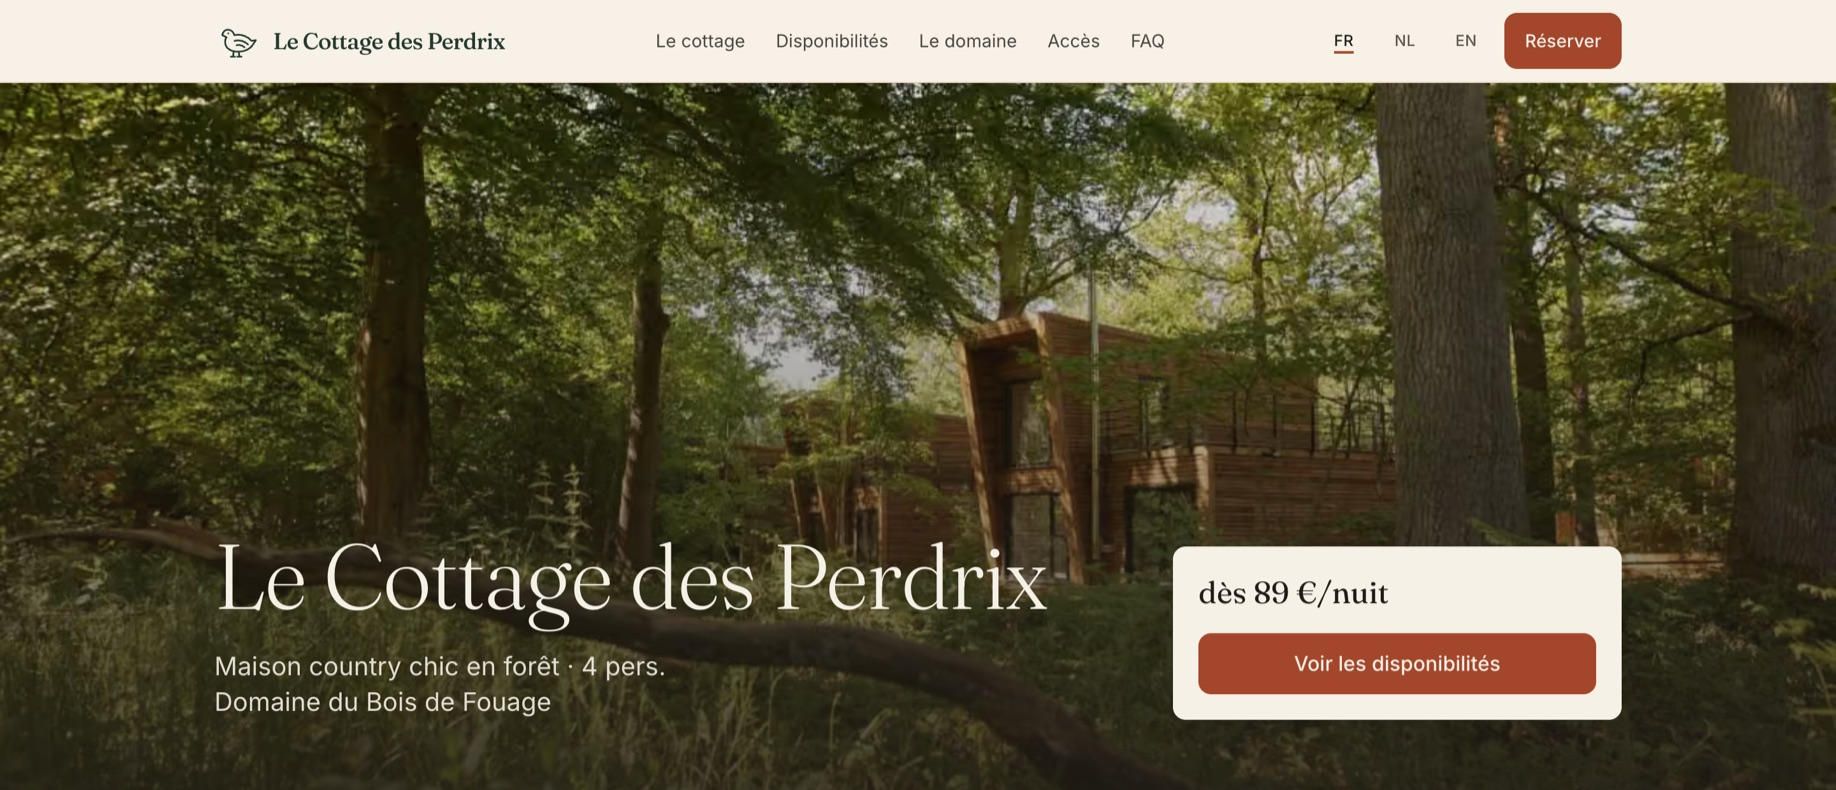
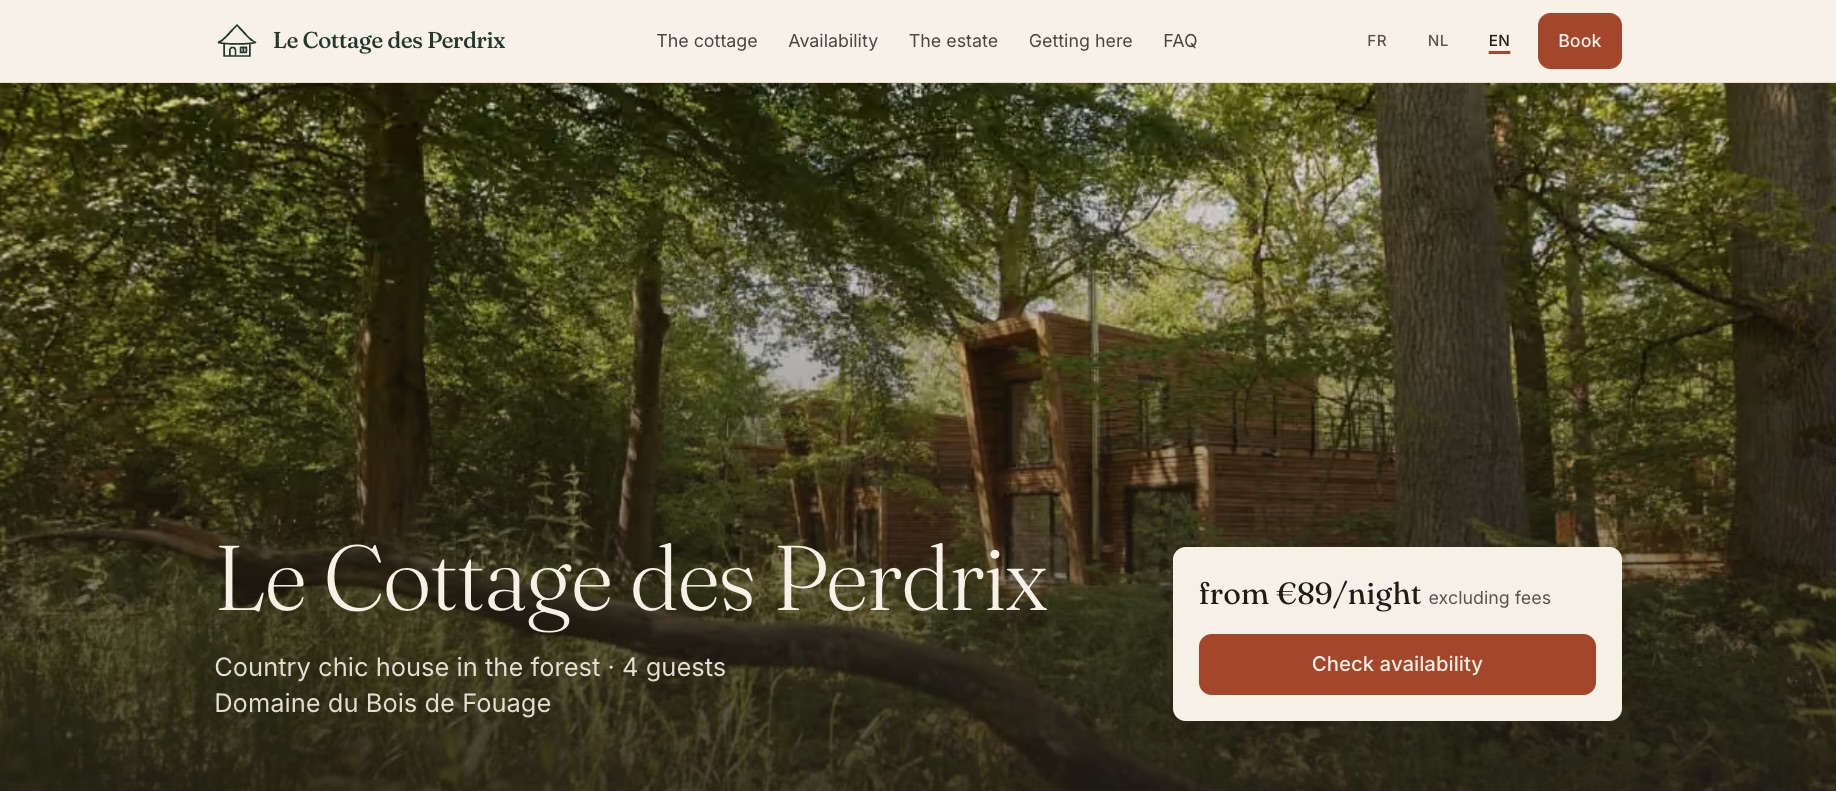
Refresh Cottage and Trek screenshots in Selected Work

diff --git a/src/components/Portfolio.jsx b/src/components/Portfolio.jsx
@@ -51,7 +51,7 @@ const projects = [
     repo: "https://github.com/brieucdegoussencourt/trek-kleinwalsertal",
     image: "/projects/trek.jpg",
     imageAlt:
-      "Trek Kleinwalsertal — landing page with the trip menu and route stats: 43.1 km, ~18h walking, +2690 m, 4 days",
+      "Trek Kleinwalsertal — alpine hero over a mountain photo with route stats: 43.1 km, ~18h walking, +2690 m, 4 days",
   },
 ];
 
